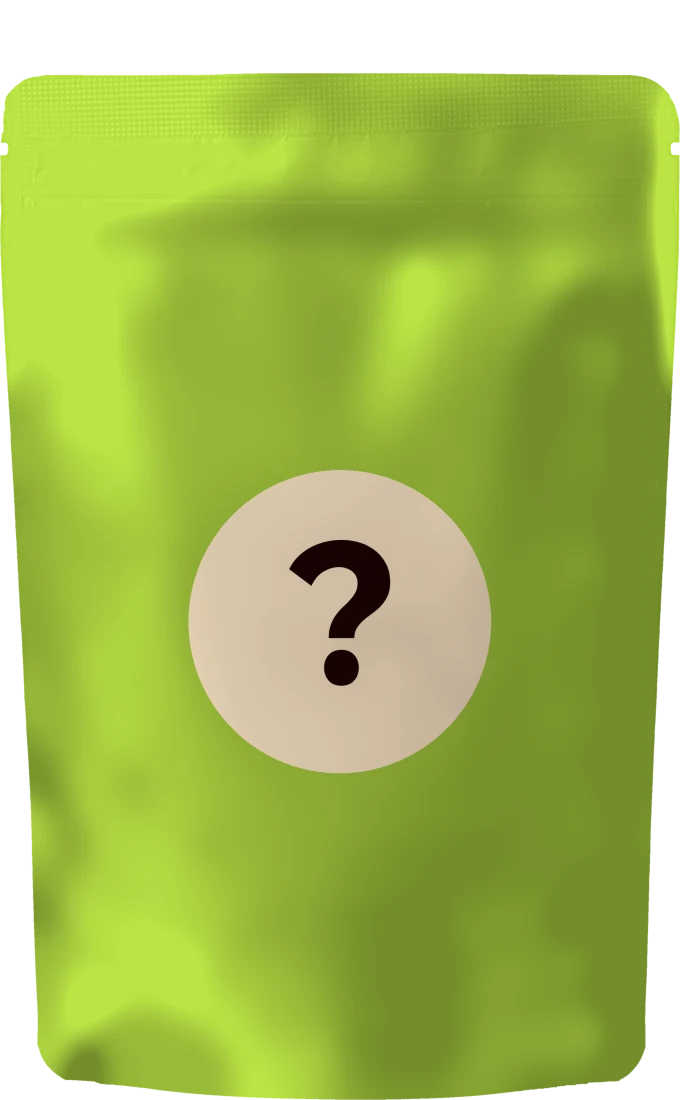
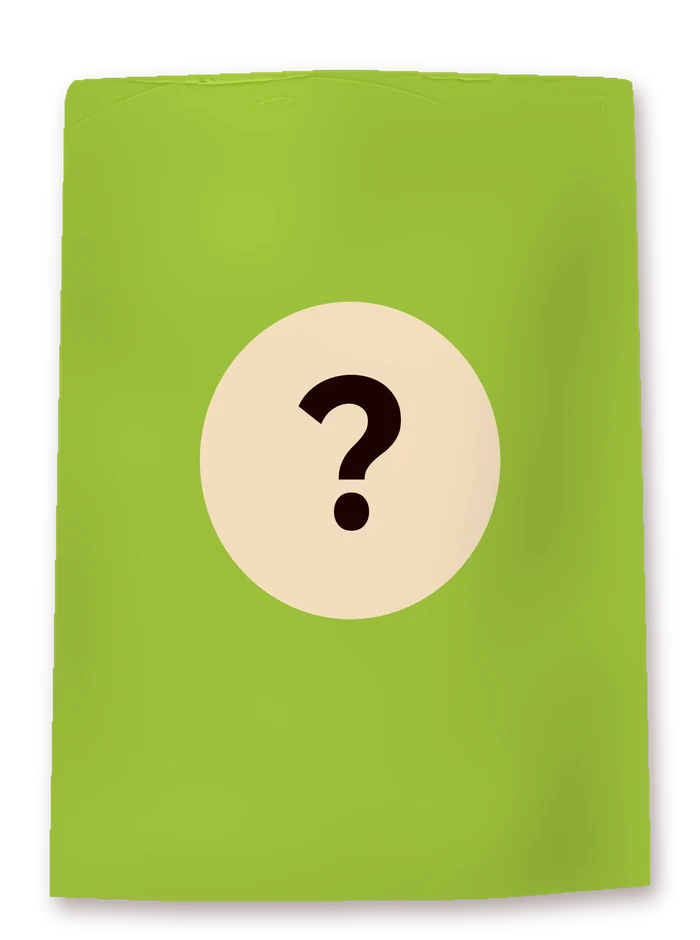
Packs cut from the hero photo: no white outline, chips spilling in flavour sections, matching vote pouches

diff --git a/index.html b/index.html
@@ -150,7 +150,7 @@ a.shot:hover img{transform:translateY(-6px)}
 .snote{font:600 15px/1.35 var(--body);margin-top:12px;min-height:1.35em}
 .packs{display:grid;grid-template-columns:minmax(0,1fr) minmax(0,1fr);gap:12px;margin-top:30px}
 .pk{display:grid;justify-items:center;text-align:center;gap:12px}
-.stack{position:relative;width:min(100%,250px);aspect-ratio:680/1330;--dir:1}
+.stack{position:relative;width:min(100%,250px);aspect-ratio:700/1177;--dir:1}
 .pk[data-pk="bbq"] .stack{--dir:-1}
 /* copies stand behind the front pack, each a step further back and towards the middle of the page */
 .stack img{position:absolute;left:0;bottom:0;width:100%;height:auto;transform-origin:50% 100%;transition:transform .45s var(--ease),opacity .35s,filter .35s;
@@ -357,7 +357,7 @@ transform:translate(calc(var(--i) * 4% * var(--dir)),calc(var(--i) * -6.5%)) sca
     <p class="allergen"><b>Allergens.</b> Contains soybean, peanut (groundnut). May contain gluten (wheat), sesame, tree nuts, celery, mustard.</p>
     <a class="more" href="peri-peri.html">Nutrition, ingredients and allergens →</a>
   </div>
-  <a class="shot d-only" href="peri-peri.html" aria-label="Peri Peri: nutrition, ingredients and allergens"><img src="img/pack-peri.webp" alt="A sealed pack of Gut Feeling Peri Peri, 43 g" width="680" height="1100" loading="lazy"></a>
+  <a class="shot d-only" href="peri-peri.html" aria-label="Peri Peri: nutrition, ingredients and allergens"><img src="img/pack-peri.webp" alt="An open pack of Gut Feeling Peri Peri, 43 g, with chips spilling out" width="1000" height="1300" loading="lazy"></a>
 </div></section>
 
 <section class="sec flav bbq" data-t="carona" aria-labelledby="t-bbq"><div class="wrap g">
@@ -386,7 +386,7 @@ transform:translate(calc(var(--i) * 4% * var(--dir)),calc(var(--i) * -6.5%)) sca
     <p class="allergen"><b>Allergens.</b> Contains soybean, peanut (groundnut), wheat (gluten), milk. May contain sesame, tree nuts, celery, mustard.</p>
     <a class="more" href="sweet-chilli-bbq.html">Nutrition, ingredients and allergens →</a>
   </div>
-  <a class="shot d-only" href="sweet-chilli-bbq.html" aria-label="Sweet Chilli BBQ: nutrition, ingredients and allergens"><img src="img/pack-bbq.webp" alt="A sealed pack of Gut Feeling Sweet Chilli BBQ, 44 g" width="680" height="1100" loading="lazy"></a>
+  <a class="shot d-only" href="sweet-chilli-bbq.html" aria-label="Sweet Chilli BBQ: nutrition, ingredients and allergens"><img src="img/pack-bbq.webp" alt="An open pack of Gut Feeling Sweet Chilli BBQ, 44 g, with chips spilling out" width="1000" height="1300" loading="lazy"></a>
 </div></section>
 
 <section class="sec box" data-t="ivory" id="boxes" aria-labelledby="t-box"><div class="wrap g">
@@ -434,13 +434,13 @@ transform:translate(calc(var(--i) * 4% * var(--dir)),calc(var(--i) * -6.5%)) sca
   </div>
   <div class="cands">
     <article class="cand a">
-      <div class="shot"><img src="img/pouch-ocean.webp" alt="A plain blue test pouch with a question-mark sticker" width="680" height="1100" loading="lazy"></div>
+      <div class="shot"><img src="img/pouch-ocean.webp" alt="A plain blue test pouch with a question-mark sticker" width="700" height="940" loading="lazy"></div>
       <h3>Masala Chaas</h3><p>Cool, tangy, a pinch of roasted jeera.</p>
       <div class="goal"><div class="tr"><i></i></div><p><b class="c">0</b> of 500 votes</p></div>
       <button class="vbtn" type="button" data-vote="a" aria-pressed="false"><svg viewBox="0 0 24 24" aria-hidden="true"><path d="M12 20s-7-4.4-7-10a4 4 0 0 1 7-2.6A4 4 0 0 1 19 10c0 5.6-7 10-7 10z"/></svg><span class="burst" aria-hidden="true"><i></i><i></i><i></i><i></i><i></i><i></i></span><span class="lbl">Vote</span></button>
     </article>
     <article class="cand b">
-      <div class="shot"><img src="img/pouch-apple.webp" alt="A plain green test pouch with a question-mark sticker" width="680" height="1100" loading="lazy"></div>
+      <div class="shot"><img src="img/pouch-apple.webp" alt="A plain green test pouch with a question-mark sticker" width="700" height="940" loading="lazy"></div>
       <h3>Lime &amp; Black Salt</h3><p>Sharp, salty, the nimbu soda of chips.</p>
       <div class="goal"><div class="tr"><i></i></div><p><b class="c">0</b> of 500 votes</p></div>
       <button class="vbtn" type="button" data-vote="b" aria-pressed="false"><svg viewBox="0 0 24 24" aria-hidden="true"><path d="M12 20s-7-4.4-7-10a4 4 0 0 1 7-2.6A4 4 0 0 1 19 10c0 5.6-7 10-7 10z"/></svg><span class="burst" aria-hidden="true"><i></i><i></i><i></i><i></i><i></i><i></i></span><span class="lbl">Vote</span></button>
@@ -565,7 +565,7 @@ transform:translate(calc(var(--i) * 4% * var(--dir)),calc(var(--i) * -6.5%)) sca
   // each flavour is its own number; the total is their sum. Size tiles and the total field just split a new total between them.
   var MAX=100,box={peri:1,bbq:1},DEPTH=4;
   $$('.pk').forEach(function(pk){var st=pk.querySelector('.stack');
-    for(var i=0;i<DEPTH;i++){var im=document.createElement('img');im.src='img/pack-'+pk.dataset.pk+'.webp';im.alt='';im.width=680;im.height=1100;im.loading='lazy';im.style.setProperty('--i',i);st.insertBefore(im,st.querySelector('.x'));}});
+    for(var i=0;i<DEPTH;i++){var im=document.createElement('img');im.src='img/pack-'+pk.dataset.pk+'-solo.webp';im.alt='';im.width=700;im.height=940;im.loading='lazy';im.style.setProperty('--i',i);st.insertBefore(im,st.querySelector('.x'));}});
   function num(v){v=parseInt(String(v).replace(/\D/g,''),10);return isNaN(v)?0:v}
   function setTotal(n){n=Math.min(MAX,Math.max(0,n));var t=box.peri+box.bbq,p=t?Math.round(n*box.peri/t):Math.ceil(n/2);box.peri=p;box.bbq=n-p;renderBox();}
   function setOne(k,v){var o=k==='peri'?'bbq':'peri';box[k]=Math.min(MAX-box[o],Math.max(0,v));}

diff --git a/sweet-chilli-bbq.html b/sweet-chilli-bbq.html
@@ -176,7 +176,7 @@ tr.i2 td:first-child{padding-left:28px}
   <div class="copy">
     <p class="kicker">Flavour 02 of 02 · Fermented soybean chips</p>
     <h1 class="name" id="pname"><span>Sweet Chilli</span><span>BBQ</span></h1>
-    <div class="shot"><img src="img/pack-bbq.webp" alt="A sealed pack of Gut Feeling Sweet Chilli BBQ, 44 g" width="680" height="1100" fetchpriority="high"></div>
+    <div class="shot"><img src="img/pack-bbq.webp" alt="An open pack of Gut Feeling Sweet Chilli BBQ, 44 g, with chips spilling out" width="1000" height="1300" fetchpriority="high"></div>
     <p class="taste">Sweet first, then a little heat, then something cheesy.</p>
     <ul class="facts">
       <li><b>6 g</b><span>protein a pack</span></li>
@@ -244,7 +244,7 @@ tr.i2 td:first-child{padding-left:28px}
 
 <a class="next" href="peri-peri.html" style="--obg:#E22A1B;--ofg:#F2DDBE"><div class="wrap g">
   <div><p class="kicker">The other one</p><h2>Peri Peri</h2><span class="go">See Peri Peri →</span></div>
-  <img src="img/pack-peri.webp" alt="" width="680" height="1100" loading="lazy">
+  <img src="img/pack-peri-solo.webp" alt="" width="700" height="940" loading="lazy">
 </div></a>
 </main>
 

diff --git a/peri-peri.html b/peri-peri.html
@@ -176,7 +176,7 @@ tr.i2 td:first-child{padding-left:28px}
   <div class="copy">
     <p class="kicker">Flavour 01 of 02 · Fermented soybean chips</p>
     <h1 class="name" id="pname"><span>Peri Peri</span></h1>
-    <div class="shot"><img src="img/pack-peri.webp" alt="A sealed pack of Gut Feeling Peri Peri, 43 g" width="680" height="1100" fetchpriority="high"></div>
+    <div class="shot"><img src="img/pack-peri.webp" alt="An open pack of Gut Feeling Peri Peri, 43 g, with chips spilling out" width="1000" height="1300" fetchpriority="high"></div>
     <p class="taste">Chilli first, then a sour tang. Thin enough to hear.</p>
     <ul class="facts">
       <li><b>5 g</b><span>protein a pack</span></li>
@@ -244,7 +244,7 @@ tr.i2 td:first-child{padding-left:28px}
 
 <a class="next" href="sweet-chilli-bbq.html" style="--obg:#F4A32C;--ofg:#1C0303"><div class="wrap g">
   <div><p class="kicker">The other one</p><h2>Sweet Chilli<br>BBQ</h2><span class="go">See Sweet Chilli BBQ →</span></div>
-  <img src="img/pack-bbq.webp" alt="" width="680" height="1100" loading="lazy">
+  <img src="img/pack-bbq-solo.webp" alt="" width="700" height="940" loading="lazy">
 </div></a>
 </main>
 
